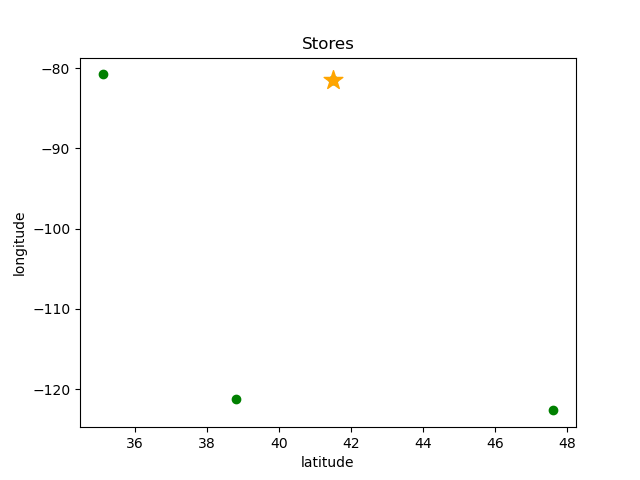
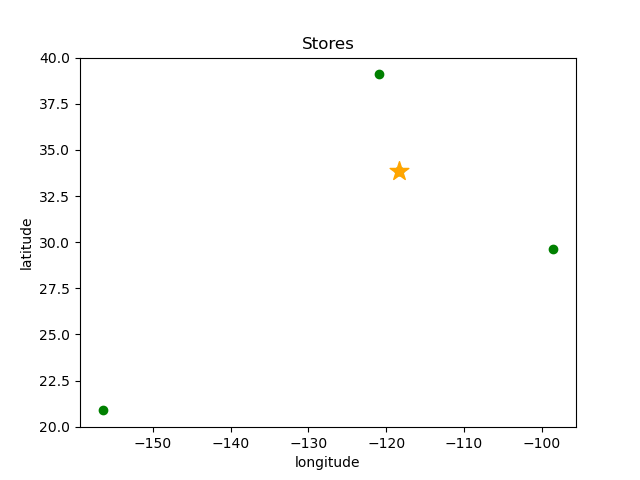
update google map view

diff --git a/example/templates/app/delivery.html b/example/templates/app/delivery.html
@@ -82,6 +82,7 @@
       </div>
       <div class="tab-pane fade" id="nav-profile" role="tabpanel" aria-labelledby="nav-profile-tab">
           <p>
+              <div></div>
               The local distribution center should be set at <b>{{ center }}</b>.
           </p>
           <p>
@@ -89,10 +90,12 @@
           </p>
           <p>
               <a class="btn btn-success" href="stores.html" role="button">View Simple Stores</a>
+              <a class="btn btn-success" href="smap.html" role="button" style="margin-left: 10px">View Map Stores</a>
           </p>
       </div>
       <div class="tab-pane fade" id="nav-contact" role="tabpanel" aria-labelledby="nav-contact-tab">
           <p>
+              <div></div>
               Shortest Path: {{ shortest }} km
           </p>
           <p>
@@ -100,8 +103,7 @@
           </p>
           <p>
               <a class="btn btn-success" href="simple.html" role="button">View Simple Path</a>
-{#              {% bootstrap_button button_type="submit" button_class="btn-outline-success" content="View Simple Path" %}#}
-
+              <a class="btn btn-success" href="pmap.html" role="button" style="margin-left: 10px">View Map Path</a>
           </p>
 
 

diff --git a/example/delivery_calc.py b/example/delivery_calc.py
@@ -9,6 +9,7 @@ from delivery import *
 import base64
 from io import BytesIO
 from distance import find_shortest
+import gmplot
 
 def calc(request):
     ctx = {}
@@ -32,11 +33,11 @@ def calc(request):
 
         # draw figure
         fig1 = plt.figure()
-        plt.scatter(lat, lon, color='g')
-        plt.xlabel('latitude')
-        plt.ylabel('longitude')
+        plt.scatter(lon, lat, color='g')
+        plt.ylabel('latitude')
+        plt.xlabel('longitude')
         print(center)
-        plt.scatter([center[0]], [center[1]], s=200, color='orange', marker='*')
+        plt.scatter([center[1]], [center[0]], s=200, color='orange', marker='*')
         plt.title('Stores')
         plt.savefig("stores.png")
 
@@ -96,11 +97,11 @@ def calc(request):
         y1.append(store_order[0][1])
 
         fig2 = plt.figure()
-        plt.plot(x1, y1, label='path', linewidth=2, color='g') # , marker='o'
+        plt.plot(y1, x1, label='path', linewidth=2, color='g') # , marker='o'
         # plt.plot(x2, y2, label='path', linewidth=2, color='g') # , marker='o'
-        plt.scatter([center[0]], [center[1]], s=200, color='orange', marker='*')
-        plt.xlabel('latitude')
-        plt.ylabel('longitude')
+        plt.scatter([center[1]], [center[0]], s=200, color='orange', marker='*')
+        plt.ylabel('latitude')
+        plt.xlabel('longitude')
         plt.title('TSP path')
         plt.legend()
         plt.savefig("path.png")
@@ -115,6 +116,28 @@ def calc(request):
 
         with open('templates/app/simple.html', 'w') as f:
             f.write(html)
+
+        # draw store map
+        gmap1 = gmplot.GoogleMapPlotter(center[0],
+                                       center[1],
+                                       5)
+        x2 = [x2 for x2 in x1 if x2!=center[0]]
+        y2 = [y2 for y2 in y1 if y2!=center[1]]
+
+        gmap1.scatter(x2, y2, size=50, color='green')
+        gmap1.scatter([center[0]], [center[1]], size=50, color='orange')
+        # gmap2.plot(x1, y1, "cornflowerblue", edge_width=2.5)
+        gmap1.draw("templates/app/smap.html")
+
+        # draw path map
+        gmap2 = gmplot.GoogleMapPlotter(center[0],
+                                       center[1],
+                                       5)
+
+        gmap2.scatter(x2, y2, size=50)
+        gmap2.scatter([center[0]], [center[1]], size=50, color='orange')
+        gmap2.plot(x1, y1, "cornflowerblue", edge_width=2.5)
+        gmap2.draw("templates/app/pmap.html")
 
 
         return render(request, "app/delivery.html", ctx)

diff --git a/example/app/views.py b/example/app/views.py
@@ -6,7 +6,7 @@ from django.views.generic import FormView
 from django.views.generic.base import TemplateView
 
 from .forms import ContactForm, ContactFormSet, FilesForm, SentimentForm, CountryForm, PickCountryForm, ArticleForm, \
-    GraphForm, DeliveryForm, SimpleForm, StoreForm
+    GraphForm, DeliveryForm, SimpleForm, StoreForm, PMapForm, SMapForm
 
 
 # http://yuji.wordpress.com/2013/01/30/django-form-field-in-initial-data-requires-a-fieldfile-instance/
@@ -66,6 +66,13 @@ class FormWithFilesView(GetParametersMixin, FormView):
     def get_initial(self):
         return {"file4": fieldfile}
 
+class PMapView(GetParametersMixin, FormView):
+    template_name = "app/pmap.html"
+    form_class = PMapForm
+
+class SMapView(GetParametersMixin, FormView):
+    template_name = "app/smap.html"
+    form_class = SMapForm
 
 class PaginationView(TemplateView):
     template_name = "app/pagination.html"

diff --git a/example/app/forms.py b/example/app/forms.py
@@ -61,7 +61,17 @@ class StoreForm(forms.Form):
                                   help_text="<i>Please paste your number here</i>",
                                   widget=forms.Textarea,
                                   )
+class PMapForm(forms.Form):
+    message = forms.CharField(required=True,
+                                  help_text="<i>Please paste your number here</i>",
+                                  widget=forms.Textarea,
+                                  )
 
+class SMapForm(forms.Form):
+    message = forms.CharField(required=True,
+                                  help_text="<i>Please paste your number here</i>",
+                                  widget=forms.Textarea,
+                                  )
 class TestForm(forms.Form):
     """Form with a variety of widgets to test django_bootstrap5 rendering."""
 

diff --git a/example/urls.py b/example/urls.py
@@ -18,7 +18,9 @@ from app.views import (
     RankGraphView,
     DeliveryView,
     SimpleView,
-    StoreView
+    StoreView,
+    PMapView,
+    SMapView
 )
 
 urlpatterns = [
@@ -38,4 +40,6 @@ urlpatterns = [
     path(r'delivery.html', delivery_calc.calc),
     path(r'simple.html', SimpleView.as_view(), name='simple'),
     path(r'stores.html', StoreView.as_view(), name='stores'),
+    path(r'pmap.html', PMapView.as_view(), name='pmap'),
+    path(r'smap.html', SMapView.as_view(), name='smap'),
 ]
